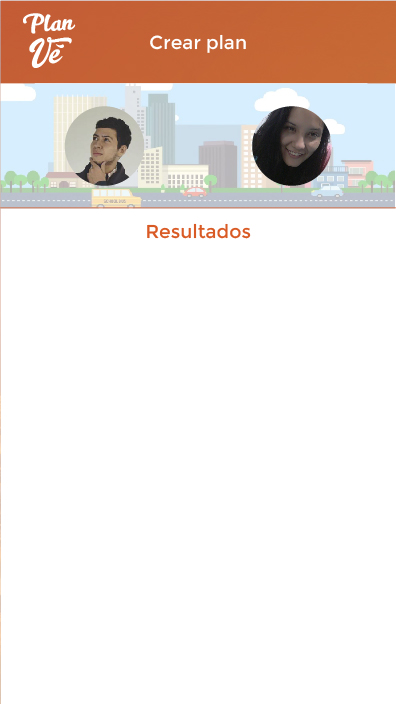
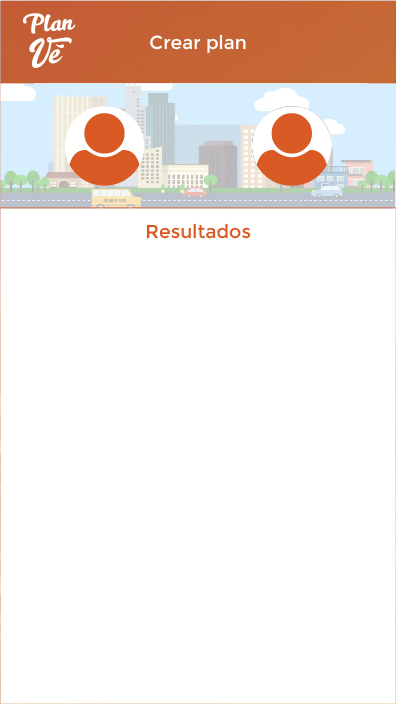
resultados

diff --git a/src/appPlanCali/Logica.java b/src/appPlanCali/Logica.java
@@ -18,7 +18,7 @@ public class Logica {
 	private PImage crearplan, crearplans, topic, topics, topten, toptens, perfil, perfils;
 	private PImage opmenup, opmenut, opmenuc, opmenucp, opmenucc, opmenua, opmenucs, opmenups, opmenuts, opmenucsel,
 			opmenucpsel, opmenuccs, opmenuas, opmenucssel;
-	private PImage likes, likessel, friends, friendsselect, planes, planesselect, btn_nature, btn_natures, btn_deporte,btn_deportes, btn_cultura, btn_culturas, btn_hobbie, btn_hobbies;
+	private PImage likes, likessel, friends, friendsselect, planes, planesselect, btn_nature, btn_natures, btn_deporte,btn_deportes, btn_cultura, btn_culturas, btn_hobbie, btn_hobbies, sup_resultados;
 	private int index;
 	private String name, user, email, pass, adress;
 	private Analisis analisis;
@@ -118,6 +118,7 @@ public class Logica {
 
 		cpscreen = app.loadImage("../data/Recursos_Pantallas/cp_screen.jpg");
 		cpscreen2 = app.loadImage("../data/Recursos_Pantallas/cp_screen2.jpg");
+		sup_resultados = app.loadImage("../data/Recursos_Pantallas/sup_resultados.jpg");
 
 		// PANTALLA 23 PERFIL BOTONES
 
@@ -353,6 +354,10 @@ public class Logica {
 			} else {
 				app.image(iconmenu, 330, 20, 59, 43);
 			}
+			
+		app.image(sup_resultados, 0, 0);
+			
+			
 		} else if (pantalla == 21) {
 
 			// BUTTON MENU DESPLEGABLE
